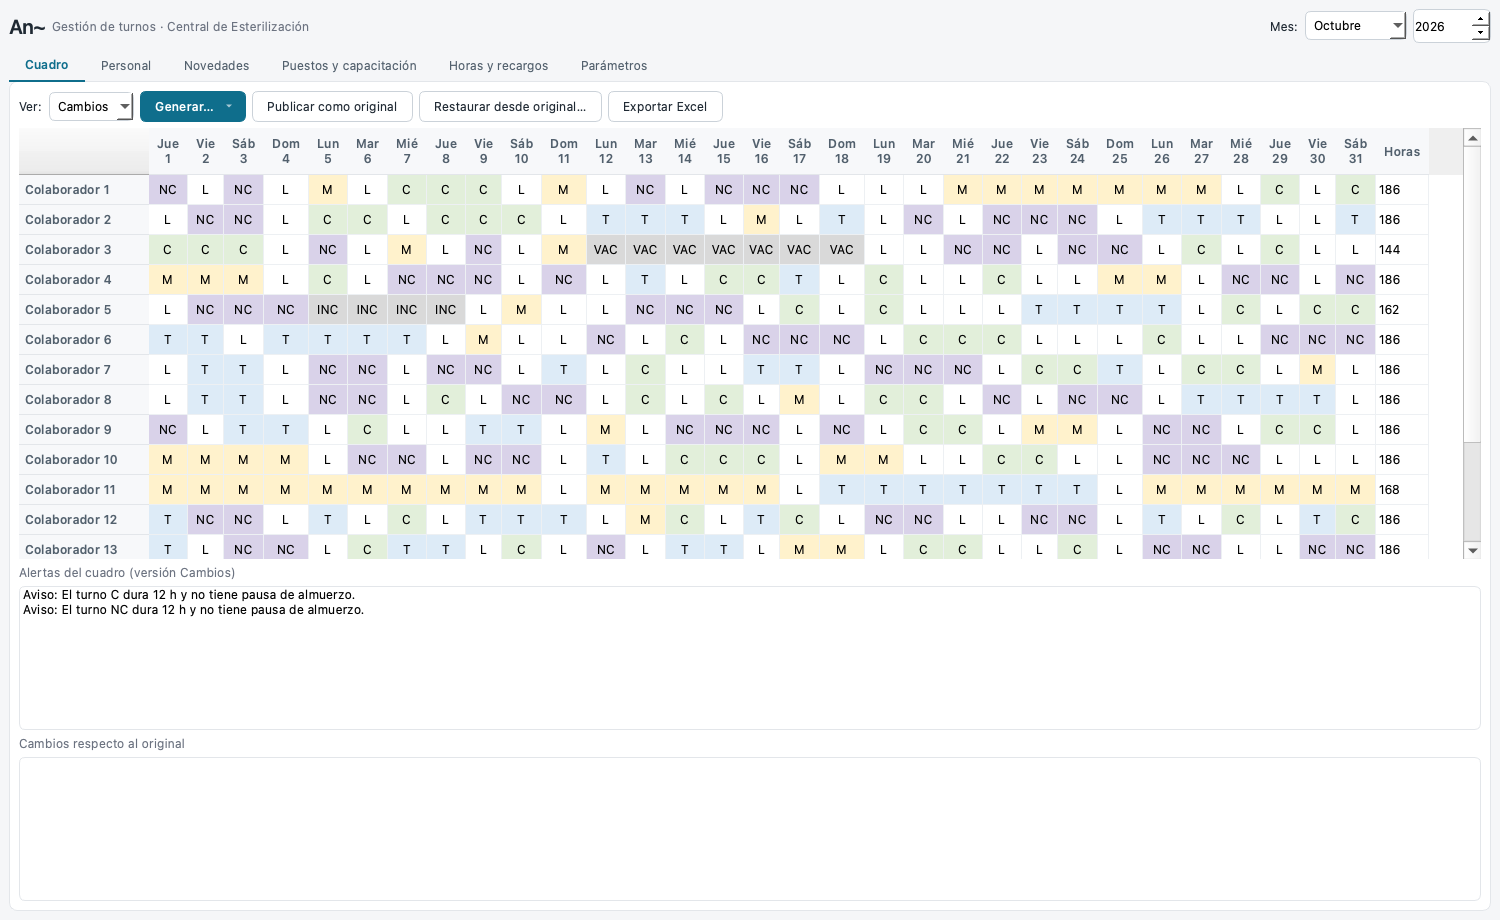
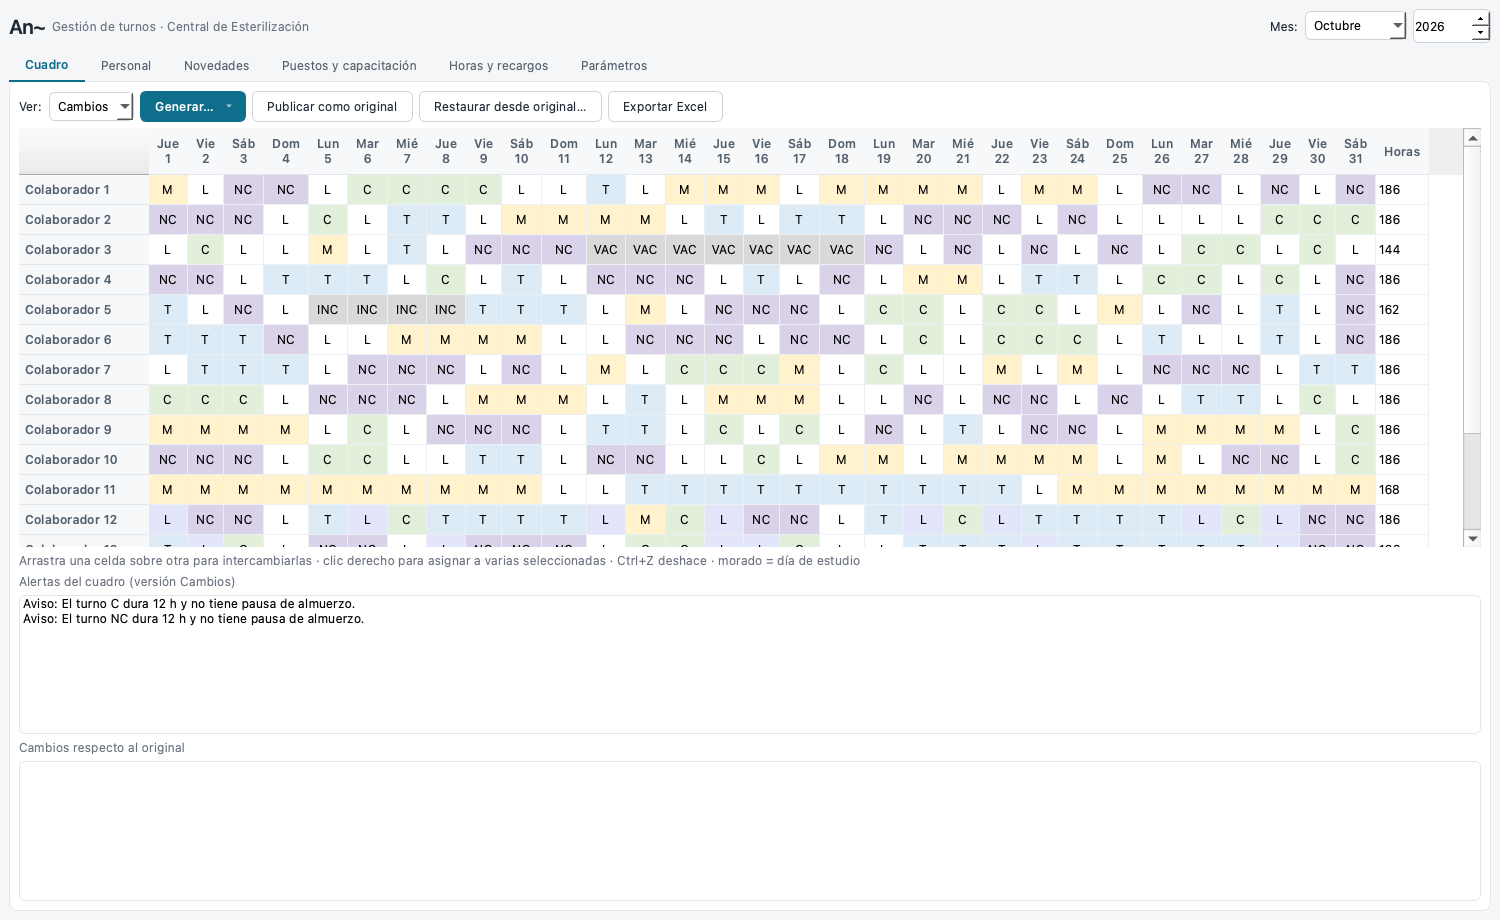
Add drag-and-drop swap, batch assign, undo and study markers to the grid
Drag a cell onto another to swap them, right-click to assign a shift to
several selected cells, and Ctrl+Z to undo manual edits. Study blocks show
in purple with a tooltip. Fix restaurar() leaving a manual edit when the
original cell was free.

Changed region(s): [[0.0, 0.1826, 0.92, 0.7], [0.0, 0.7913, 0.1227, 0.8217]]

diff --git a/app.py b/app.py
@@ -7,7 +7,7 @@ from datetime import date, datetime, timedelta
 from pathlib import Path
 
 from PySide6.QtCore import QDate, QSettings, Qt, QThread, QTime, Signal
-from PySide6.QtGui import QColor, QFont
+from PySide6.QtGui import QColor, QFont, QKeySequence, QShortcut
 from PySide6.QtWidgets import (QAbstractItemView, QApplication, QCheckBox, QColorDialog, QComboBox, QDateEdit,
                                QDoubleSpinBox, QFileDialog, QFormLayout, QGroupBox, QHBoxLayout, QHeaderView, QInputDialog, QLabel, QLineEdit,
                                QListWidget, QMainWindow, QMenu, QMessageBox, QPushButton, QSpinBox, QTableWidget,
@@ -93,6 +93,22 @@ def hhmm(minutos):
     return f"{minutos // 60 % 24:02d}:{minutos % 60:02d}"
 
 
+class Grilla(QTableWidget):
+    """Tabla del cuadro: al soltar una celda sobre otra emite `soltada(origen_fila, origen_col, destino_fila, destino_col)`."""
+    soltada = Signal(int, int, int, int)
+
+    def startDrag(self, acciones):
+        self._origen = (self.currentRow(), self.currentColumn())
+        super().startDrag(acciones)
+
+    def dropEvent(self, e):
+        d = self.indexAt(e.position().toPoint())
+        if d.isValid() and (d.row(), d.column()) != self._origen:
+            self.soltada.emit(*self._origen, d.row(), d.column())
+        e.setDropAction(Qt.CopyAction)  # evita que Qt vacíe la celda de origen
+        e.accept()
+
+
 class Trabajo(QThread):
     listo = Signal(object, object)
     fallo = Signal(str)
@@ -118,6 +134,8 @@ class Ventana(QMainWindow):
         self.cfg = QSettings("An", "An")
         self.bd = db.BD(str(ruta_bd))
         self.trabajo = None
+        self._deshacer = []
+        QShortcut(QKeySequence.Undo, self, activated=self.deshacer)
         hoy = date.today()
         raiz = QWidget(objectName="fondo")
         self.setCentralWidget(raiz)
@@ -169,6 +187,7 @@ class Ventana(QMainWindow):
         self.aviso.setVisible(bool(texto))
 
     def _cambio_vista(self):
+        self._deshacer.clear()
         self.avisar("")
         self.refrescar()
 
@@ -203,9 +222,19 @@ class Ventana(QMainWindow):
             barra.addWidget(b)
         barra.addStretch()
         v.addLayout(barra)
-        self.grilla = QTableWidget()
+        self.grilla = Grilla()
         self.grilla.itemChanged.connect(self._celda_editada)
+        self.grilla.soltada.connect(self._mover_celda)
+        self.grilla.setDragEnabled(True)
+        self.grilla.setAcceptDrops(True)
+        self.grilla.setDropIndicatorShown(True)
+        self.grilla.setDragDropMode(QAbstractItemView.DragDrop)
+        self.grilla.setSelectionMode(QAbstractItemView.ExtendedSelection)
+        self.grilla.setContextMenuPolicy(Qt.CustomContextMenu)
+        self.grilla.customContextMenuRequested.connect(self._menu_lote)
         v.addWidget(self.grilla, 3)
+        v.addWidget(QLabel("Arrastra una celda sobre otra para intercambiarlas · clic derecho para asignar a varias "
+                           "seleccionadas · Ctrl+Z deshace · morado = día de estudio", objectName="muted"))
         v.addWidget(QLabel("Alertas del cuadro (versión Cambios)", objectName="muted"))
         self.alertas = QListWidget()
         v.addWidget(self.alertas, 1)
@@ -240,6 +269,11 @@ class Ventana(QMainWindow):
                     horas += self.ctx.turnos[cod].horas
                 elif nov:
                     it.setBackground(QColor("#D9D9D9"))
+                estudia = [("Mañana", "Tarde")["MT".index(fr)] for dia, fr in p.estudio if dia == f.weekday()]
+                if estudia:
+                    it.setToolTip("Estudia: " + " y ".join(x.lower() for x in estudia))
+                    if cod == "L" and not nov:
+                        it.setBackground(QColor("#E3E6FA"))
                 if not ver_orig and orig.get((p.id, f), "L") != cod:
                     it.setBackground(QColor(AMARILLO))
                 if ver_orig or nov and cod == "L":
@@ -279,21 +313,77 @@ class Ventana(QMainWindow):
         elif self.aviso.text().startswith("Este mes aún"):
             self.avisar("")
 
-    def _celda_editada(self, it):
-        r, c = it.row(), it.column()
-        gente = [p for p in self.ctx.colabs if p.en_solver]
-        if r >= len(gente) or c >= len(self.fechas):
-            return
+    def _gente(self):
+        return [p for p in self.ctx.colabs if p.en_solver]
+
+    def _editable(self, r, c):
+        """Persona y fecha de la celda (r, c) si se puede cambiar; None si es de totales, novedad u original."""
+        gente = self._gente()
+        if r >= len(gente) or c >= len(self.fechas) or self.version.currentText() == "Original":
+            return None
         p, f = gente[r], self.fechas[c]
+        nov = self.ctx.novedad(p.id, f)
+        return None if nov and self.bd.asignaciones(self.clave).get((p.id, f), "L") == "L" else (p, f)
+
+    def _aplicar(self, cambios, texto):
+        """cambios: [(persona, fecha, código)]. Guarda, recalcula, deja deshacer y avisa de reglas que se rompen."""
+        k, cuadro = self.clave, self.bd.asignaciones(self.clave)
+        self._deshacer.append([(p.id, f, cuadro.get((p.id, f), "L")) for p, f, _ in cambios])
+        motivos = []
+        for p, f, cod in cambios:
+            self.bd.set_celda(k, p.id, f, cod)
+            if cod != "L" and (m := self.ctx.bloqueo(p, self.ctx.turnos[cod], f)):
+                motivos.append(f"{p.nombre} {f:%d/%m}: {m}")
+        flujo.recalcular(self.bd, self.año.value(), self.mes.currentIndex() + 1, self.ctx)
+        self.avisar(texto + (" — ojo: " + "; ".join(motivos[:3]) + "." if motivos else ""), "warn" if motivos else "info")
+        self._ver_cuadro()
+
+    def _celda_editada(self, it):
+        celda = self._editable(it.row(), it.column())
+        if not celda:
+            return
+        p, f = celda
         cod = it.text().strip().upper() or "L"
         if cod != "L" and cod not in self.ctx.turnos:
             self.avisar(f"«{cod}» no es un turno. Usa L o uno de: {', '.join(self.ctx.turnos)}.", "error")
+            self._ver_cuadro()
         else:
-            self.bd.set_celda(self.clave, p.id, f, cod)
-            flujo.recalcular(self.bd, self.año.value(), self.mes.currentIndex() + 1, self.ctx)
-            motivo = self.ctx.bloqueo(p, self.ctx.turnos[cod], f) if cod != "L" else None
-            self.avisar(f"{p.nombre} · {f:%d/%m}: {cod}" + (f" — ojo: {motivo}." if motivo else ""),
-                        "warn" if motivo else "info")
+            self._aplicar([(p, f, cod)], f"{p.nombre} · {f:%d/%m}: {cod}")
+
+    def _mover_celda(self, r1, c1, r2, c2):
+        """Intercambia el contenido de dos celdas (arrastrar y soltar)."""
+        a, b = self._editable(r1, c1), self._editable(r2, c2)
+        if not (a and b):
+            return self.avisar("Esa celda no se puede cambiar (novedad, totales o vista Original).", "warn")
+        cuadro = self.bd.asignaciones(self.clave)
+        x, y = cuadro.get((a[0].id, a[1]), "L"), cuadro.get((b[0].id, b[1]), "L")
+        if x == y:
+            return
+        self._aplicar([(a[0], a[1], y), (b[0], b[1], x)],
+                      f"Intercambio: {a[0].nombre} {a[1]:%d/%m} ({x}) ⇄ {b[0].nombre} {b[1]:%d/%m} ({y})")
+
+    def _menu_lote(self, pos):
+        celdas = [c for i in self.grilla.selectedIndexes() if (c := self._editable(i.row(), i.column()))]
+        if not celdas:
+            return
+        m = QMenu(self)
+        m.addSection(f"Asignar a {len(celdas)} celda(s)")
+        for cod in [*self.ctx.turnos, "L"]:
+            m.addAction(cod if cod != "L" else "L · libre", lambda cod=cod: self._aplicar(
+                [(p, f, cod) for p, f in celdas], f"{len(celdas)} celda(s) → {cod}"))
+        m.exec(self.grilla.viewport().mapToGlobal(pos))
+
+    def deshacer(self):
+        if not self._deshacer or self.version.currentText() == "Original":
+            return
+        k, orig = self.clave, self.bd.asignaciones(self.clave, "original")
+        for cid, f, antes in self._deshacer.pop():
+            if orig.get((cid, f), "L") == antes:
+                self.bd.restaurar(k, {cid}, {f})
+            else:
+                self.bd.set_celda(k, cid, f, antes)
+        flujo.recalcular(self.bd, self.año.value(), self.mes.currentIndex() + 1, self.ctx)
+        self.avisar("Cambio deshecho.")
         self._ver_cuadro()
 
     def generar(self, modo, lunes=None):
@@ -315,6 +405,7 @@ class Ventana(QMainWindow):
         self.trabajo.start()
 
     def _generado(self, ctx, fechas, cuadro, info, modo):
+        self._deshacer.clear()
         self.b_generar.setEnabled(True)
         flujo.terminar(self.bd, self.año.value(), self.mes.currentIndex() + 1, ctx, fechas, cuadro, modo)
         if info["faltan"]:
@@ -338,12 +429,14 @@ class Ventana(QMainWindow):
     def publicar(self):
         if QMessageBox.question(self, "Publicar", "El cuadro actual pasará a ser el «original». ¿Continuar?") == QMessageBox.Yes:
             self.bd.publicar(self.clave)
+            self._deshacer.clear()
             self.avisar("Cuadro publicado como original.")
             self._ver_cuadro()
 
     def restaurar(self):
         if QMessageBox.question(self, "Restaurar", "Se devolverán todas las celdas al original. ¿Continuar?") == QMessageBox.Yes:
             self.bd.restaurar(self.clave)
+            self._deshacer.clear()
             flujo.recalcular(self.bd, self.año.value(), self.mes.currentIndex() + 1)
             self.refrescar()
 

diff --git a/test_gui.py b/test_gui.py
@@ -33,4 +33,33 @@ v._nuevo_turno(); v.t_cod.setText("M"); v._guardar_turno(); assert "Ya existe" i
 v._nuevo_turno(); v.t_cod.setText("ZZ"); [cb.setChecked(False) for cb in v.t_cubre.values()]; v._guardar_turno(); assert "franjas" in v.aviso.text()
 v.t_tabla.selectRow([x.codigo for x in v._turnos].index("M7")); v._cargar_turno(); v._eliminar_turno()
 assert "M7" not in v.bd.turnos(solo_activos=False)
+# --- cuadro: intercambio por arrastre, lote y deshacer
+from PySide6.QtCore import QMimeData, QPointF
+from PySide6.QtGui import QDropEvent
+v.p_inactivos.setChecked(False); v.refrescar()
+for n in ("Ana", "Beto"):
+    v._nueva_persona(); v.p_nombre.setText(n); v._guardar_persona()
+v.año.setValue(2026); v.mes.setCurrentIndex(9)
+a, b = [p.id for p in v.bd.colaboradores()][-2:]
+d1, d2 = date(2026, 10, 5), date(2026, 10, 6)
+v.bd.guardar_cuadro("2026-10", {(a, d1): "M", (b, d1): "T", (b, d2): "NC"}); v.refrescar()
+gente = [p.id for p in v._gente()]; ra, rb = gente.index(a), gente.index(b)
+g = v.grilla; c1, c2 = 4, 5
+ver = lambda: v.bd.asignaciones("2026-10")
+# soltar de verdad: el evento de drop llama a la señal con origen y destino
+g._origen = (ra, c1)
+pos = g.visualRect(g.model().index(rb, c1)).center()
+g.dropEvent(QDropEvent(QPointF(pos), Qt.MoveAction, QMimeData(), Qt.LeftButton, Qt.NoModifier))
+assert ver()[(a, d1)] == "T" and ver()[(b, d1)] == "M", ver()
+assert v.bd.diferencias("2026-10"), "el intercambio debe verse como cambio frente al original"
+v.deshacer(); assert ver()[(a, d1)] == "M" and ver()[(b, d1)] == "T" and v.bd.diferencias("2026-10") == []
+# no se pisa una celda de totales ni se cambia en la vista Original
+v._mover_celda(ra, c1, len(gente), c1); assert "no se puede" in v.aviso.text()
+# lote: seleccionar dos celdas y asignar L
+v._aplicar([(v._gente()[ra], d1, "L"), (v._gente()[rb], d1, "L")], "lote"); assert (a, d1) not in {k for k, x in ver().items() if x != "L"}
+v.deshacer(); assert ver()[(a, d1)] == "M"
+# estudio visible: la celda libre de quien estudia ese día lleva aviso
+v._nueva_persona(); v.p_nombre.setText("Eva"); v.p_est.item(0, 0).setCheckState(Qt.Checked); v._guardar_persona(); v.refrescar()
+fila = [p.nombre for p in v._gente()].index("Eva")
+assert v.grilla.item(fila, c1).toolTip() == "Estudia: mañana" and v.grilla.item(fila, c1).background().color().name() == "#e3e6fa"
 print("OK")

diff --git a/db.py b/db.py
@@ -183,11 +183,16 @@ class BD:
         self.c.commit()
 
     def restaurar(self, mes, cids=None, fechas=None):
-        """Devuelve celdas de `cambios` a lo que dice `original` (todas si no se filtra)."""
-        for (cid, f), t in self.asignaciones(mes, "original").items():
+        """Devuelve celdas de `cambios` a lo que dice `original` (todas si no se filtra). Una celda libre en el
+        original deja de tener fila en `cambios`."""
+        orig, cam = self.asignaciones(mes, "original"), self.asignaciones(mes, "cambios")
+        for (cid, f) in set(orig) | set(cam):
             if (cids is None or cid in cids) and (fechas is None or f in fechas):
-                self.c.execute("INSERT OR REPLACE INTO asignacion VALUES (?,?,?,?,?,?,0)",
-                               (mes, "cambios", cid, f.isoformat(), t, "restaurado"))
+                self.c.execute("DELETE FROM asignacion WHERE mes=? AND version='cambios' AND colab_id=? AND fecha=?",
+                               (mes, cid, f.isoformat()))
+                if (cid, f) in orig:
+                    self.c.execute("INSERT INTO asignacion VALUES (?,?,?,?,?,?,0)",
+                                   (mes, "cambios", cid, f.isoformat(), orig[cid, f], "restaurado"))
         self.c.commit()
 
     def publicar(self, mes):

diff --git a/test_turnos.py b/test_turnos.py
@@ -109,6 +109,11 @@ def test_versiones():
     assert bd.asignaciones("2026-10")[(pid, f)] == "T"
     bd.restaurar("2026-10")
     assert bd.diferencias("2026-10") == []
+    g = date(2026, 10, 6)  # celda libre en el original: restaurar la deja libre y sin fila
+    bd.set_celda("2026-10", pid, g, "M")
+    assert bd.diferencias("2026-10") == [(pid, g, "L", "M")]
+    bd.restaurar("2026-10", {pid}, {g})
+    assert bd.diferencias("2026-10") == [] and (pid, g) not in bd.asignaciones("2026-10")
     bd.set_celda("2026-10", pid, f, "C")
     bd.publicar("2026-10")
     assert bd.diferencias("2026-10") == []

diff --git a/docs/GUIA_USUARIO.md b/docs/GUIA_USUARIO.md
@@ -38,13 +38,19 @@ Pestaña **Cuadro** → elige el mes → **Generar… → Generar desde cero**. 
 
 ### 3. Ajustar
 
-Haz doble clic en una celda y escribe el código del turno (`M`, `T`, `C`, `NC`) o `L` para libre. An~:
+Hay tres formas, todas sobre la versión *Cambios*:
 
-- guarda el cambio como **fijo** (el solver ya no lo mueve),
-- lo marca en **amarillo** frente al original,
-- revalida y avisa si rompe una regla, sin impedírtelo.
+- **Escribir:** doble clic en una celda y el código del turno (`M`, `T`, `C`, `NC`), o `L` para libre.
+- **Arrastrar y soltar:** arrastra una celda sobre otra para **intercambiarlas**, sea de otra persona o de otro día. El pie de la grilla lo recuerda.
+- **En lote:** selecciona varias celdas (con Mayús o Ctrl), clic derecho y elige el turno o «L · libre» para todas a la vez.
 
-El listado **Cambios respecto al original** muestra cada diferencia (persona, fecha, antes → después).
+Cada cambio:
+
+- queda como **fijo** (el generador ya no lo mueve) y en **amarillo** frente al original,
+- se revalida al instante y avisa si rompe una regla, sin impedírtelo,
+- se puede **deshacer con Ctrl+Z** (hasta que generes, publiques o restaures).
+
+Los días de estudio aparecen en **morado** sobre las celdas libres, y al pasar el cursor dice si es de mañana o tarde. El listado **Cambios respecto al original** muestra cada diferencia (persona, fecha, antes → después).
 
 ### 4. Cuando llega una novedad tarde
 
@@ -81,7 +87,7 @@ Si el archivo ya existe, guarda `v2`, `v3`… y no sobrescribe nada.
 
 ## Preguntas frecuentes
 
-**¿Por qué una celda no deja cambiar?** Los días de novedad (VAC, INC…) y la vista *Original* son de solo lectura.
+**¿Por qué una celda no deja cambiar?** Los días de novedad (VAC, INC…), las filas de totales y la vista *Original* son de solo lectura; arrastrar sobre ellas avisa.
 
 **La app dice que faltan personas en un día.** Hay demasiadas novedades o restricciones ese día. Revisa **Novedades**, o baja la cobertura requerida si es una decisión del servicio.
 

diff --git a/README.md b/README.md
@@ -45,6 +45,7 @@ El plan, los principios y las preguntas abiertas están en [docs/VISION.md](docs
 |---|---|
 | 🧮 **Cuadro con solver** | OR-Tools genera el mes completo: cobertura 4+4+2 (lunes a sábado) y 2+2+2 (domingo y festivo), 12 h de descanso entre turnos, un día libre por semana y tope de noches seguidas. |
 | ⚖ **Rotación y equidad** | Reparte noches, domingos/festivos y corridos, y arrastra lo acumulado de meses anteriores. |
+| ✋ **Edición ágil** | Arrastra celdas para intercambiarlas, asigna turnos a varias celdas con clic derecho y deshaz con Ctrl+Z. Los días de estudio se ven en la grilla. |
 | 🗂 **Original y cambios** | Dos versiones por mes. Lo que se edita queda en amarillo, con lista de diferencias, y se puede publicar o restaurar. |
 | 👥 **Personal y novedades** | Crear, editar y eliminar colaboradores con casillas para turnos permitidos y bloques de estudio; vacaciones, incapacidades, licencias y días libres. |
 | 🕘 **Turnos editables** | Crea, edita y elimina turnos: horarios, franjas que cubren, color y pausa de almuerzo (pagada o no). Todo se recalcula. |

diff --git a/docs/ARQUITECTURA.md b/docs/ARQUITECTURA.md
@@ -88,8 +88,8 @@ De productos de turnos como [Deputy y When I Work](https://www.softwaresuggest.c
 
 - **Color por turno y por estado** (aplicado: turnos con color, novedades en gris, cambios en amarillo, faltantes en rojo).
 - **Alertas de cumplimiento al armar el cuadro** (aplicado: validación en vivo de descanso, cobertura y estudios).
-- **No disponibilidad visible en la grilla** antes de asignar (aplicado con VAC/INC; falta mostrar los bloques de estudio).
-- **Arrastrar y soltar** para mover turnos y **asignación en lote** de varios días (pendiente).
+- **No disponibilidad visible en la grilla** antes de asignar (aplicado: VAC/INC en gris y bloques de estudio en morado).
+- **Arrastrar y soltar** para intercambiar turnos y **asignación en lote** de varias celdas, con deshacer (aplicado).
 - **Aviso anticipado de subcobertura** (pendiente).
 
 Las fuentes son páginas de comparación y de producto, no estudios de usabilidad; sirven como referencia de patrones, no como validación.

diff --git a/docs/HOJA_DE_RUTA.md b/docs/HOJA_DE_RUTA.md
@@ -17,7 +17,7 @@ Estado a oct-2026. v1 está construida; falta validarla con la coordinación y e
 
 | Etapa | Idea | Notas |
 |---|---|---|
-| Interfaz más ágil | Arrastrar y soltar turnos, asignar varios días a la vez, mostrar bloques de estudio en la grilla, deshacer | Ver [inspiración](ARQUITECTURA.md#interfaz-y-tecnología) |
+| Interfaz más ágil | Aviso anticipado de subcobertura, rehacer (Ctrl+Y), mover un turno a una celda libre sin intercambiar, vista por semana | Arrastrar, lote, deshacer y estudio ya están; ver [inspiración](ARQUITECTURA.md#interfaz-y-tecnología) |
 | Importar el Excel actual | Cargar personal y ciclos desde `TURNOS ESTERILIZACION*.xlsx` | Evita digitar a mano la primera vez |
 | Cambios y solicitudes | Permutas entre colaboradores con aprobación y registro (quién, cuándo, por qué) | Hoy solo hay edición manual |
 | Pausas en cobertura | Que el solver reserve relevos de almuerzo por puesto | Hoy solo se asignan grupos de pausa |
